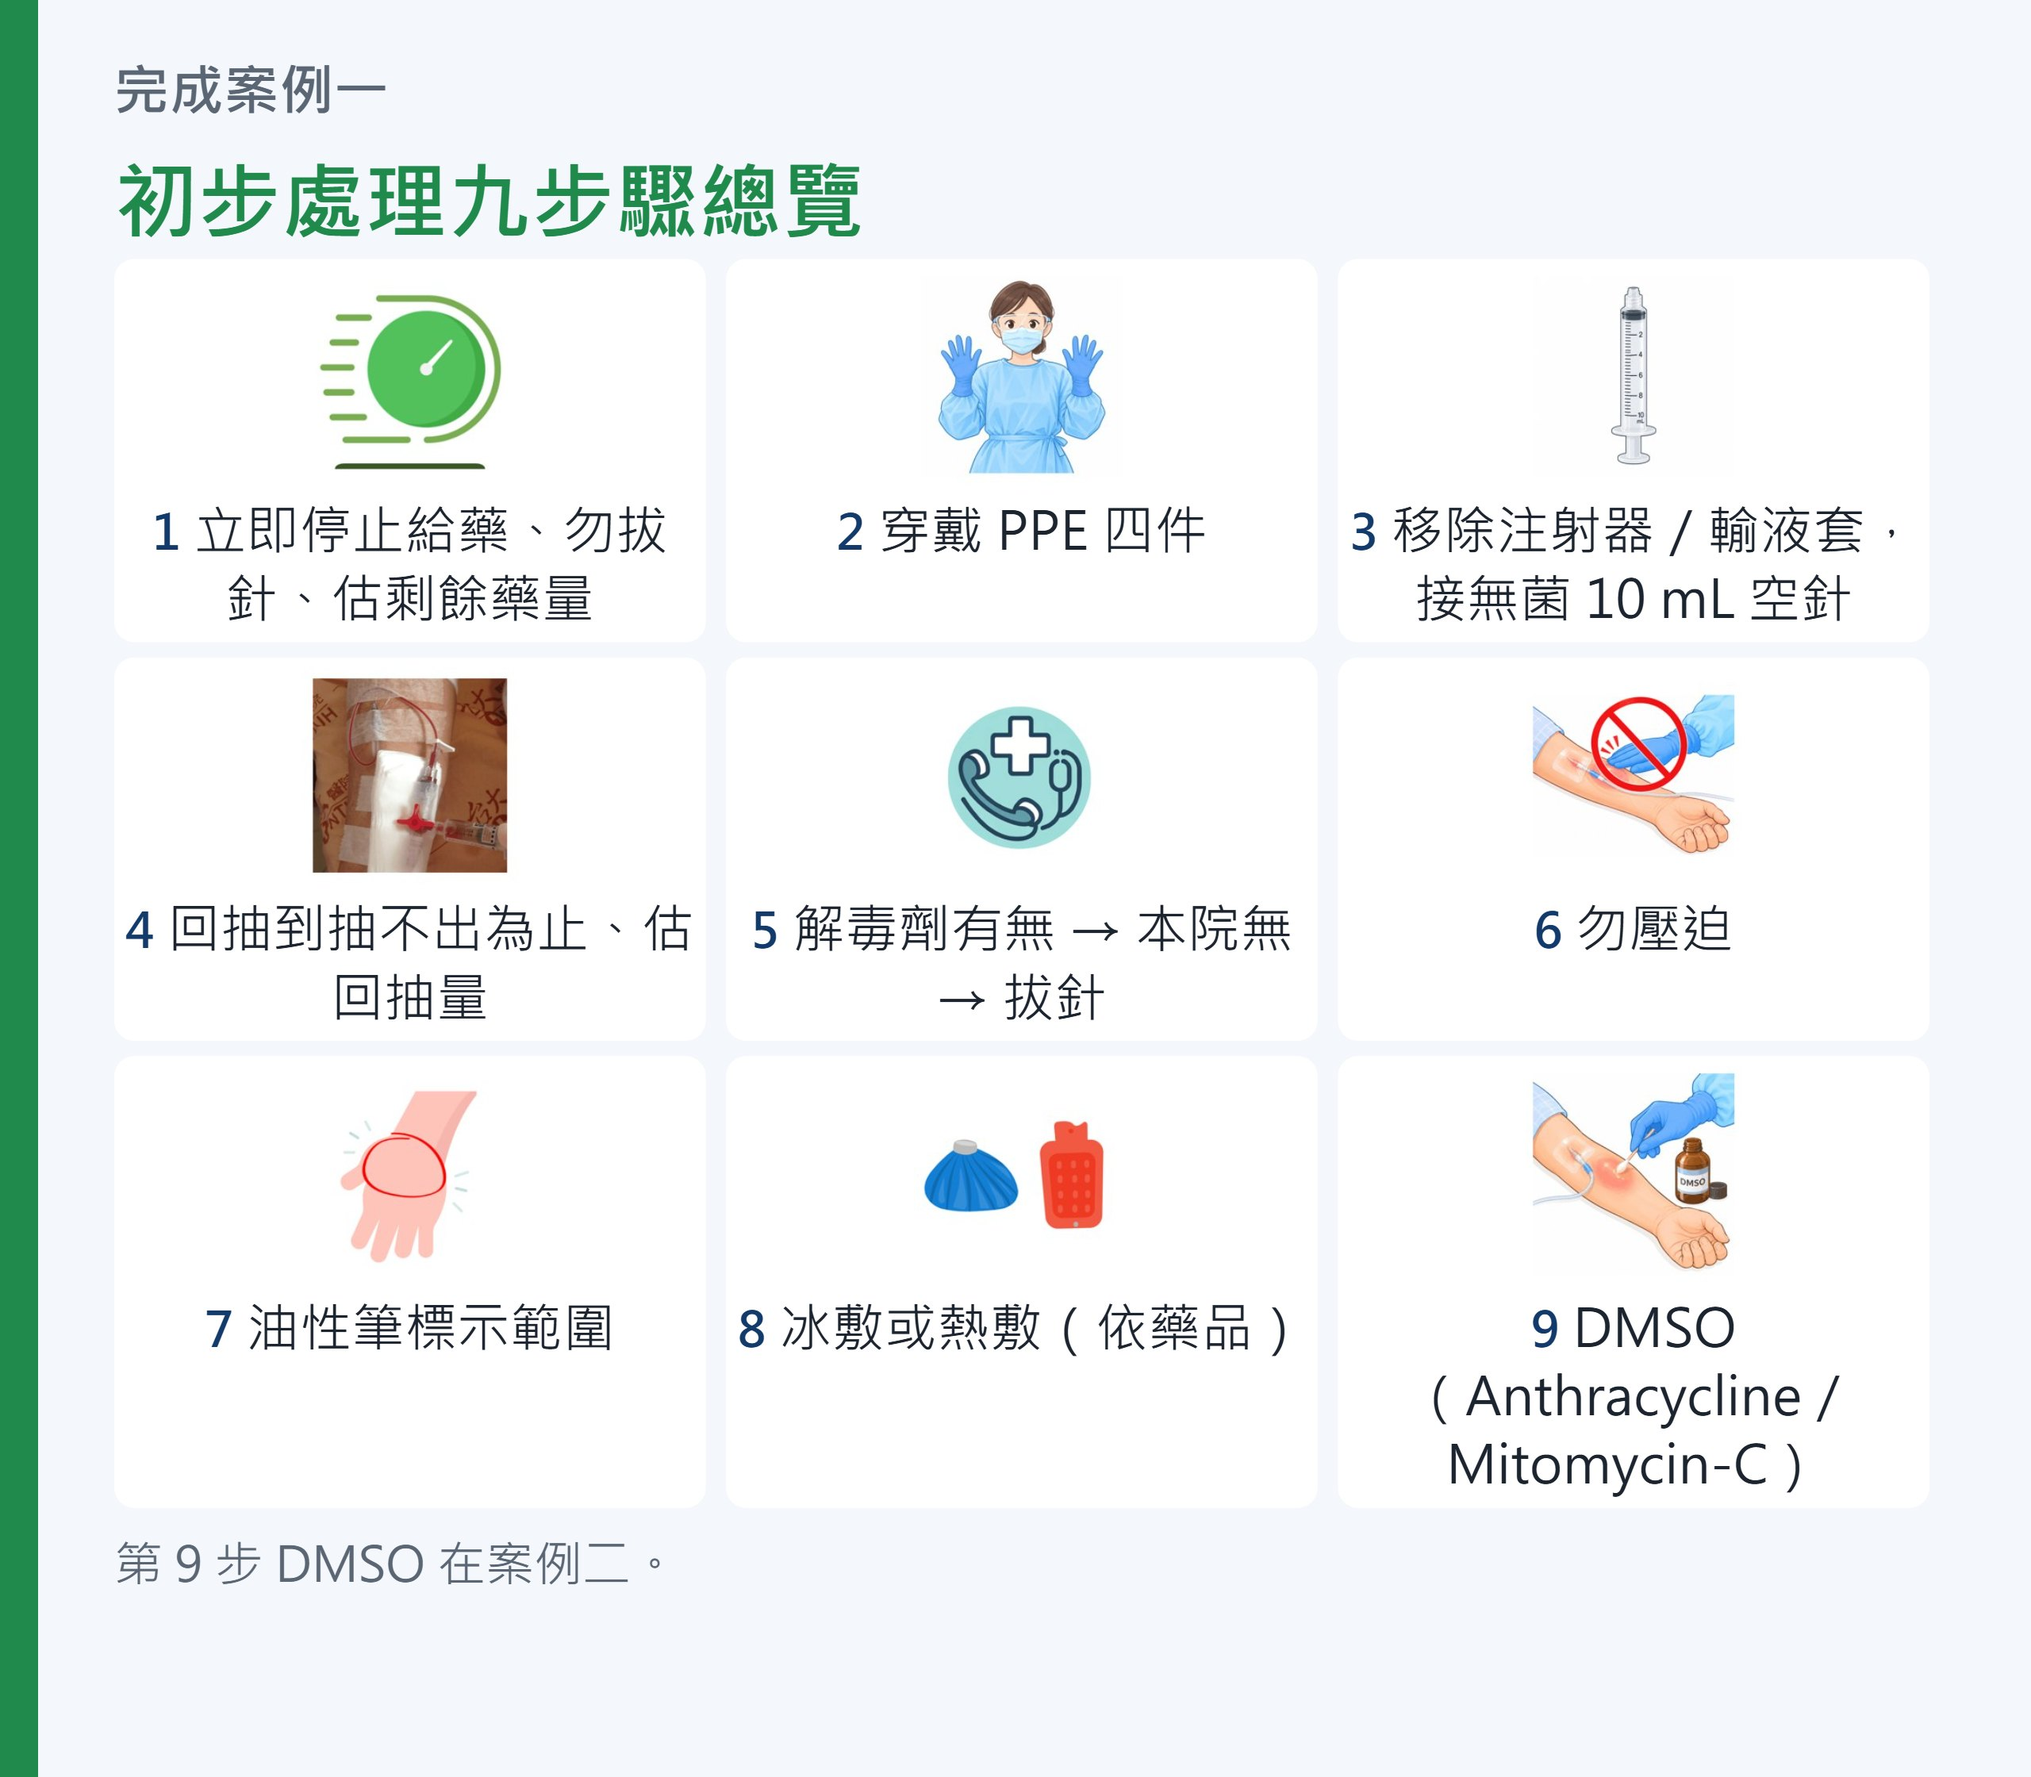
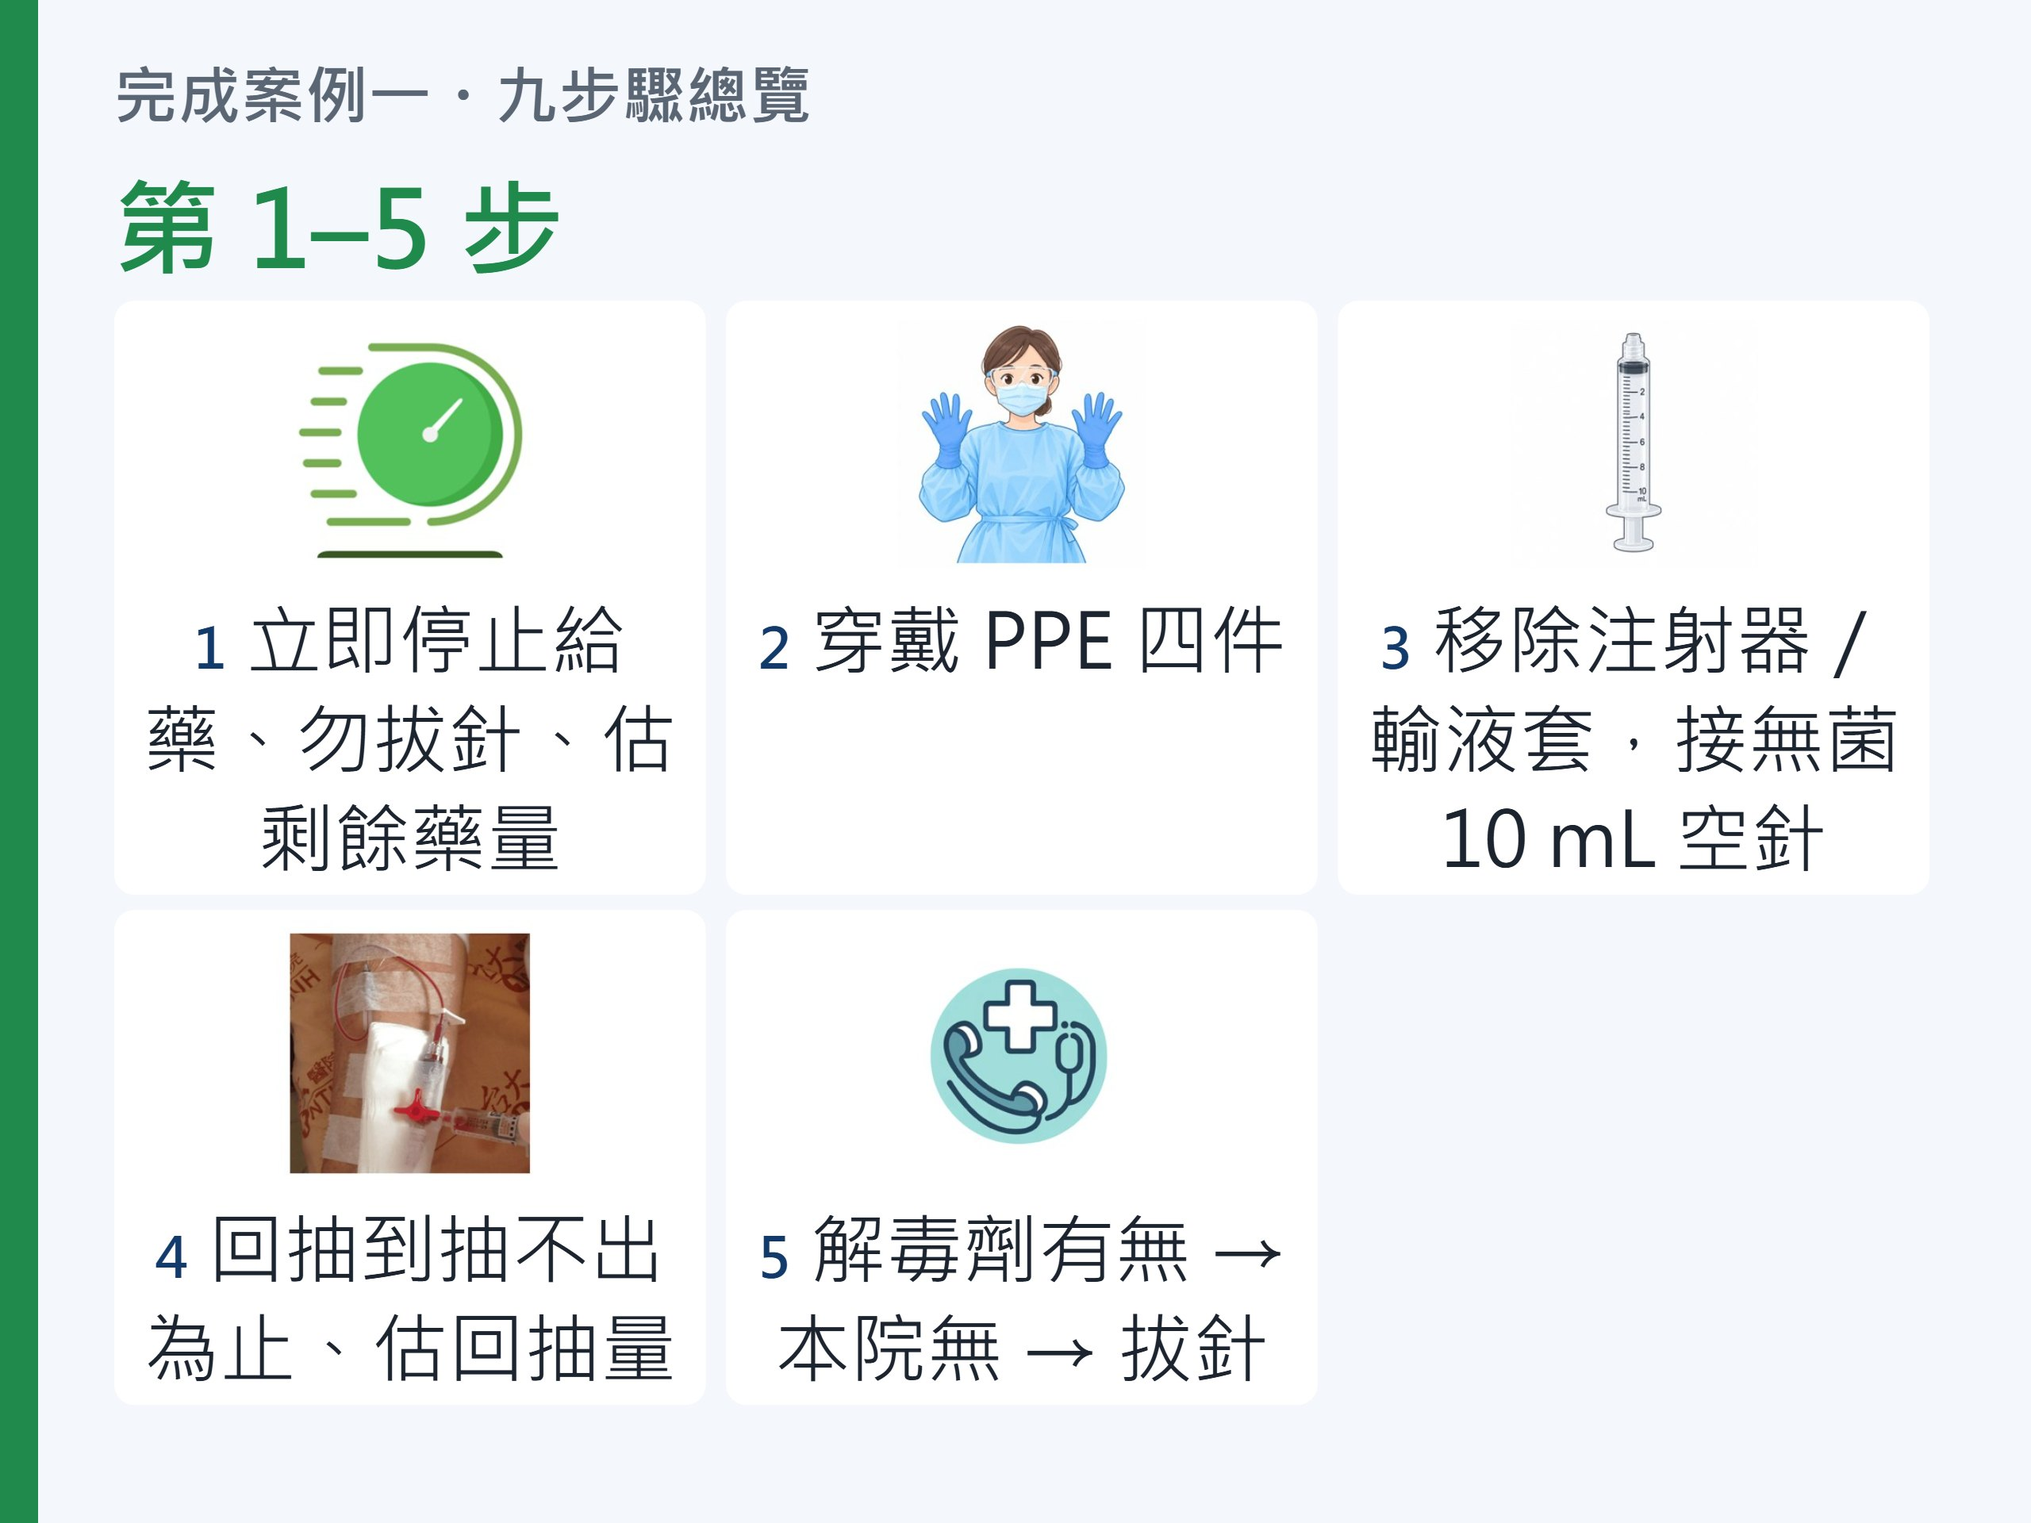
Web VR: split 9-step summary into two side-by-side cards for readability

diff --git a/docs/vr/index.html b/docs/vr/index.html
@@ -170,6 +170,7 @@ $("#pClose").onclick=()=>{$("#panel").classList.remove("on"); $("#pFrame").src="
 function layoutPortrait(st,s,nextFn){
   const Z=-4.2;
   if(s.type==="info"){ const [mw,mh]=D.sizes[s.main], tall=mh/mw>0.7, cy=tall?2.35:2.2; mk(st,s.main,{x:0,y:cy,z:Z,w:2.6});
+    if(s.main2) mk(st,s.main2,{...arc(40,4.2),y:cy,w:2.6});   // 直式：第 6–9 步在右側，轉手機看
     const by=cy-2.6*mh/mw/2-0.3;
     if(s.btns) s.btns.forEach((b,k)=>mk(st,b.img,{x:0,y:(tall?by:1.2)-k*0.42,z:Z,w:1.6,click:()=>to(b.to)}));
     else mk(st,s.next,{x:0,y:1.05,z:Z,w:1.3,click:nextFn}); }
@@ -208,7 +209,8 @@ function go(i,quiet){
   const nextFn=()=>go(cur+1);
   if(PORTRAIT()) layoutPortrait(st,s,nextFn); else {
   if(s.type==="info"){
-    if(s.id==="sum1") mk(st,s.main,{x:-0.5,y:1.55,z:-3.5,w:2.9}); else mk(st,s.main,{x:0,y:1.95,z:-4.0,w:3.8});
+    if(s.main2){ mk(st,s.main,{...arc(-19,4.0),y:1.85,w:2.45}); mk(st,s.main2,{...arc(19,4.0),y:1.85,w:2.45}); }   // 九步驟總覽兩張並排
+    else mk(st,s.main,{x:0,y:1.95,z:-4.0,w:3.8});
     if(s.next) mk(st,s.next,{...(s.id==="sum1"?arc(48,3.3):{x:0,z:-3.3}),y:s.id==="sum1"?1.3:0.4,rx:s.id==="sum1"?0:-22,w:2.2,click:nextFn});
   }
   if(s.type==="clues"){
@@ -224,7 +226,7 @@ function go(i,quiet){
       s.opts.forEach((o,k)=>mk(st,o.img,{...Op,y:1.45+((n-1)/2-k)*0.8,w:2.45,click:()=>answer(s,o.k)})); }
     if(s.poster){const p=arc(-70,3.6); mk(st,s.poster.img,{...p,y:1.6,w:1.3,click:()=>play(s.poster.au)});}
   }
-  if(s.type==="info"&&s.btns){ const n=s.btns.length; s.btns.forEach((b,k)=>{ if(s.id==="sum1"){ mk(st,b.img,{...arc(31+k*14,3.0),y:0.75-k*0.6,w:1.5,click:()=>to(b.to)}); return; }
+  if(s.type==="info"&&s.btns){ const n=s.btns.length; s.btns.forEach((b,k)=>{ if(s.id==="sum1"){ mk(st,b.img,{x:0,y:0.35-k*0.6,z:-3.4,rx:-15,w:1.6,click:()=>to(b.to)}); return; }
     const p=arc((k-(n-1)/2)*36,3.4); mk(st,b.img,{...p,y:0.3,rx:-22,w:2.7,click:()=>to(b.to)});}); }
   if(s.type==="mcq") layMcq(st,s,false);
   if(s.type==="multi") layMulti(st,s,false);

diff --git a/docs/vr/_build_vr_handson.py b/docs/vr/_build_vr_handson.py
@@ -79,6 +79,7 @@ ul{margin:14px 0 0 1.1em;padding:0}
 .io img{height:360px;max-width:740px;object-fit:contain;border-radius:18px;background:#fff}
 .io b{font-size:96px;line-height:1.15}.io span{font-size:62px;line-height:1.2;color:#5b6675}
 .btn{display:flex;align-items:center;justify-content:center;color:#fff;font-weight:800;text-align:center;padding:0 30px;white-space:nowrap}
+.g9big div{font-size:60px!important}.g9big img{width:300px!important;height:210px!important}
 .big .kick{font-size:56px}.big h1{font-size:100px}.big p{font-size:76px!important;line-height:1.45}
 .grid9{display:grid;grid-template-columns:repeat(3,1fr);gap:12px 16px;margin-top:6px}
 .grid9 div{display:flex;flex-direction:column;gap:8px;align-items:center;text-align:center;font-size:48px;line-height:1.3;background:#fff;border-radius:16px;padding:8px}
@@ -211,10 +212,16 @@ def build(card):
     C("HS_Q19_NG", fbcard("ng", "正解說明", q19["explain_ng"], f"文字來源：規格檔 Q19（表單 {q19['form_item']}）", hint="點這張卡片 ▶ 看九步驟總覽"), q19["explain_ng"])
     # ---- 九步驟總覽 ----
     g9 = "".join(f'<div><img src="{img64("h_" + s["id"] + ".png", 240)}"><span><i>{i + 1}</i> {e(s["t"])}</span></div>' for i, s in enumerate(H["STEPS9"]))
-    C("HS_SUM1", (f'<div class="c ok" data-root style="justify-content:flex-start;padding-top:40px;height:1400px"><div class="bar"></div><div class="kick">完成案例一</div>'
-                  f'<h1 style="font-size:76px">初步處理九步驟總覽</h1><div class="grid9">{g9}</div>'
-                  f'<p style="font-size:44px;color:#5b6675;margin-top:14px">第 9 步 DMSO 在案例二。</p></div>', (1600, 1400)),
+    # 9/29：九步驟總覽拆兩張（1–5、6–9）並排，字才夠大；語音掛在第一張
+    def g9card(lo, hi, title, foot=""):
+        cells = "".join(f'<div><img src="{img64("h_" + s["id"] + ".png", 300)}"><span><i>{i + 1}</i> {e(s["t"])}</span></div>'
+                        for i, s in enumerate(H["STEPS9"]) if lo <= i + 1 <= hi)
+        return (f'<div class="c ok" data-root style="justify-content:flex-start;padding-top:40px;height:1200px"><div class="bar"></div><div class="kick">完成案例一・九步驟總覽</div>'
+                f'<h1 style="font-size:84px">{e(title)}</h1><div class="grid9 g9big">{cells}</div>'
+                + (f'<p style="font-size:50px;color:#5b6675;margin-top:14px">{e(foot)}</p>' if foot else "") + '</div>', (1600, 1200))
+    C("HS_SUM1", g9card(1, 5, "第 1–5 步"),
       "完成案例一。初步處理九個步驟：" + "；".join(f"第{i + 1}，{s['t']}" for i, s in enumerate(H["STEPS9"])) + "。第九步 DMSO 在案例二。")
+    C("HS_SUM1B", g9card(6, 9, "第 6–9 步", "第 9 步 DMSO 在案例二。"))
     C("HS_GO_LOOKUP", btncard("下一站：查詢站 ▶", "#123a6b", 1000, 300, 72))
     C("HS_GO_C2", btncard("🟣 案例二 DMSO", "#7a3fb5", 1000, 300, 72))
     C("HS_GO_C3", btncard("⏰ 案例三 抬高 48 小時", "#b7791f", 1100, 300, 68))
@@ -344,7 +351,7 @@ def build(card):
     S["q19"] = {"id": "q19", "title": "敷療：原則題", "sky": "bed", "type": "mcq", "q": A("HS_Q19_Q"), "nar": "HS_Q19_Q",
                 "opts": [{"img": A(f"HS_Q19_{o['key']}"), "fb": A("HS_Q19_OK" if o["key"] == q19["answer"] else "HS_Q19_NG"),
                           "au": "HS_Q19_OK" if o["key"] == q19["answer"] else "HS_Q19_NG", "adv": True} for o in q19["options"]]}
-    S["sum1"] = {"id": "sum1", "title": "案例一完成：九步驟總覽", "sky": "store", "type": "info", "main": A("HS_SUM1"), "nar": "HS_SUM1",
+    S["sum1"] = {"id": "sum1", "title": "案例一完成：九步驟總覽", "sky": "store", "type": "info", "main": A("HS_SUM1"), "main2": A("HS_SUM1B"), "nar": "HS_SUM1",
                  "btns": [{"img": A("HS_NEXT_C2"), "to": "c2intro"}]}
     # 案例二
     C2 = [{"id": "c2intro", "case": 2, "title": "案例二：情境", "sky": "bed", "type": "info", "main": A("HS_C2_INTRO"), "nar": "HS_C2_INTRO", "next": card("BTN_下一步")},
